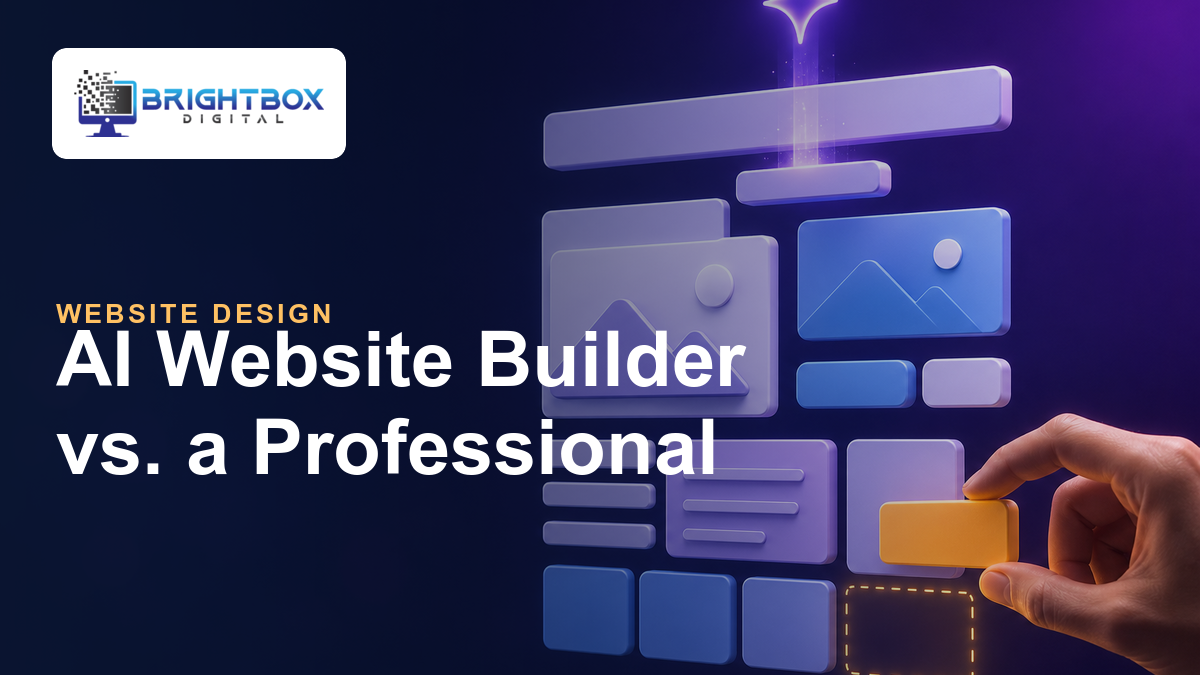
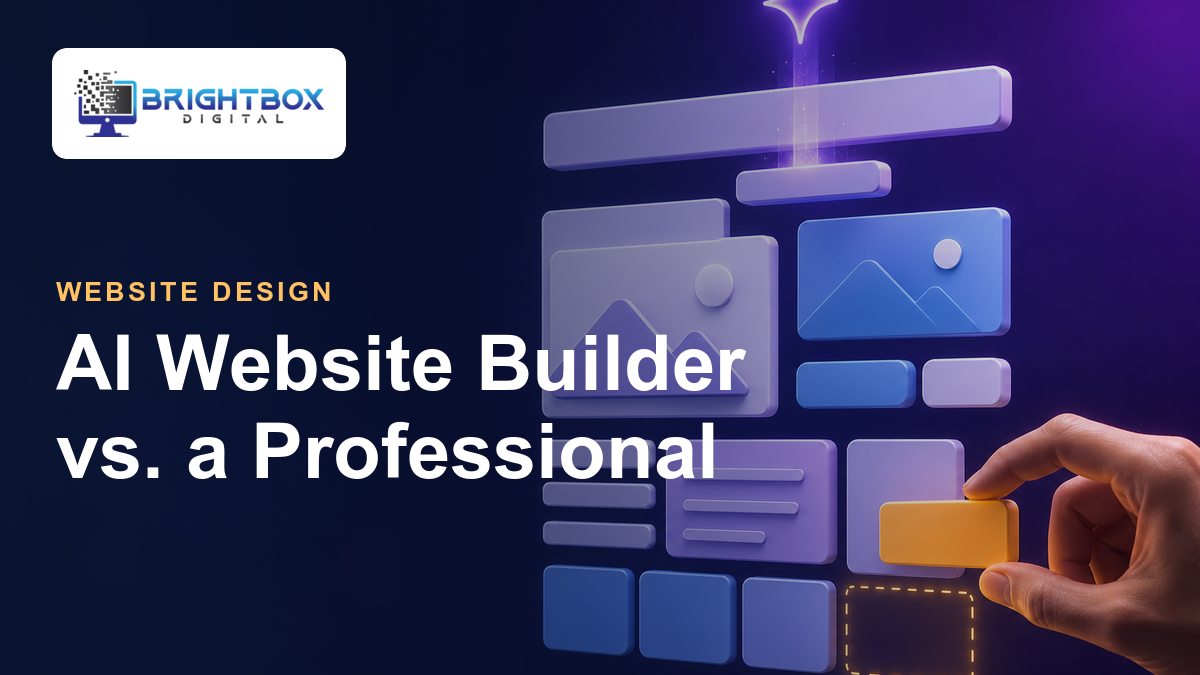
BBX-005 published: overlay spacing fix, new featured image, Rank Math set, inbound link from redesign post

diff --git a/clients/brightbox/drafts/BBX-005-draft-v1.html b/clients/brightbox/drafts/BBX-005-draft-v1.html
@@ -8,7 +8,7 @@
      NeuronWriter query: 997328a335cf030e
      ====================================================================== -->
 
-<h1>AI Website Builder vs. Professional Website Development: What a Local Business Gets With Each</h1>
+<h1>AI Website Builder vs. Professional Website Development</h1>
 
 <p><em>By Archie Brady, Brightbox Digital</em></p>
 

diff --git a/scripts/brand_overlay.py b/scripts/brand_overlay.py
@@ -101,7 +101,9 @@ def main():
             subprocess.run(["magick", "-background", "none", "-fill", AMBER, "-font", FONT,
                             "-pointsize", "27", "-kerning", "3",
                             f"label:{args.category.upper()}", str(eyebrow)], check=True)
-            stack += [str(eyebrow), "-splice", "0x18"]  # transparent gap below eyebrow
+            # -splice adds rows at the top unless gravity is South. The old "0x18" was landing above the
+            # eyebrow, so it sat almost on the headline (flagged by Archie 2026-10-16).
+            stack += [str(eyebrow), "-gravity", "South", "-splice", "0x26"]  # gap below eyebrow
         stack += [str(headline_img), "-gravity", "West", "-append", str(text)]
         subprocess.run(stack, check=True)
 
